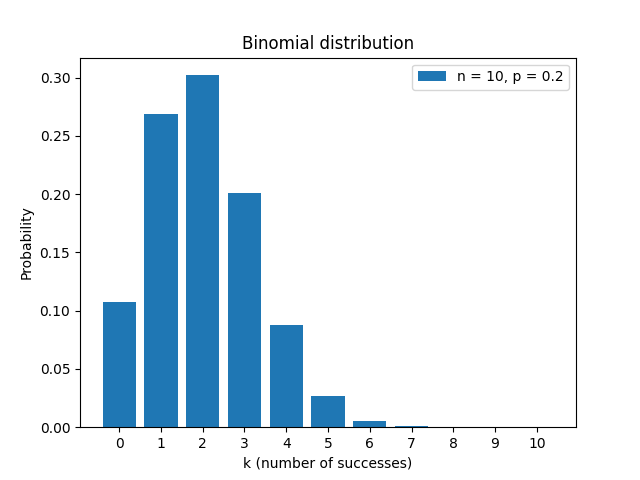
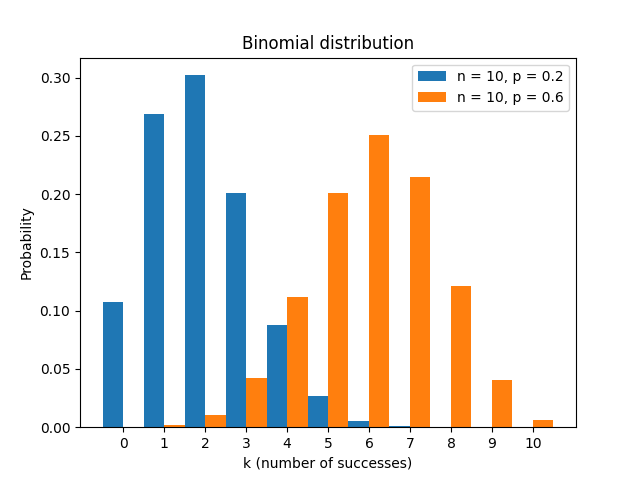
Embed more diagrams

diff --git a/rand_distr/src/gamma.rs b/rand_distr/src/gamma.rs
@@ -50,10 +50,17 @@ use serde::{Serialize, Deserialize};
 /// println!("{} is from a Gamma(2, 5) distribution", v);
 /// ```
 ///
+/// # Diagram
+///
+/// The diagram shows the Gamma distribution with varying shape and scale.
+///
+/// ![Gamma distribution][diagram]
+///
 /// [^1]: George Marsaglia and Wai Wan Tsang. 2000. "A Simple Method for
 ///       Generating Gamma Variables" *ACM Trans. Math. Softw.* 26, 3
 ///       (September 2000), 363-372.
 ///       DOI:[10.1145/358407.358414](https://doi.acm.org/10.1145/358407.358414)
+#[cfg_attr(feature = "doc-images", doc = embed_doc_image::embed_image!("diagram", "plots/gamma.png"))]
 #[derive(Clone, Copy, Debug, PartialEq)]
 #[cfg_attr(feature = "serde1", derive(Serialize, Deserialize))]
 pub struct Gamma<F>
@@ -280,6 +287,13 @@ where
 /// let v = chi.sample(&mut rand::thread_rng());
 /// println!("{} is from a χ²(11) distribution", v)
 /// ```
+///
+/// # Diagram
+///
+/// The diagram shows the chi-squared distribution with varying degrees of freedom.
+///
+/// ![Chi-squared distribution][diagram]
+#[cfg_attr(feature = "doc-images", doc = embed_doc_image::embed_image!("diagram", "plots/chi_squared.png"))]
 #[derive(Clone, Copy, Debug, PartialEq)]
 #[cfg_attr(feature = "serde1", derive(Serialize, Deserialize))]
 pub struct ChiSquared<F>

diff --git a/rand_distr/src/exponential.rs b/rand_distr/src/exponential.rs
@@ -91,6 +91,13 @@ impl Distribution<f64> for Exp1 {
 /// let v = exp.sample(&mut rand::thread_rng());
 /// println!("{} is from a Exp(2) distribution", v);
 /// ```
+///
+/// # Diagram
+///
+/// The diagram shows the exponential distribution with `λ = 0.5`, `λ = 1` and `λ = 2`.
+///
+/// ![Exponential distribution][diagram]
+#[cfg_attr(feature = "doc-images", doc = embed_doc_image::embed_image!("diagram", "plots/exponential.png"))]
 #[derive(Clone, Copy, Debug, PartialEq)]
 #[cfg_attr(feature = "serde1", derive(serde::Serialize, serde::Deserialize))]
 pub struct Exp<F>

diff --git a/rand_distr/src/binomial.rs b/rand_distr/src/binomial.rs
@@ -33,8 +33,8 @@ use num_traits::Float;
 ///
 /// # Diagram
 /// 
-/// The diagram shows the binomial distribution for `n = 10` and `p = 0.2`.
-/// The probability of `k` successes is shown for each `k` from 0 to 10.
+/// The following diagram of the binomial distribution illustrates the probability of 
+/// `k` successes out of `n = 10` trials with `p = 0.2` and `p = 0.6` for each `k` from 0 to `n`.
 ///
 /// ![Binomial distribution][diagram]
 #[cfg_attr(feature = "doc-images", doc = embed_doc_image::embed_image!("diagram", "plots/binomial.png"))]

diff --git a/rand_distr/src/normal.rs b/rand_distr/src/normal.rs
@@ -36,6 +36,13 @@ use core::fmt;
 /// let val: f64 = thread_rng().sample(StandardNormal);
 /// println!("{}", val);
 /// ```
+///
+/// # Diagram
+///
+/// The following diagram shows the normal distribution with various parameters.
+///
+/// ![Normal distribution][diagram]
+#[cfg_attr(feature = "doc-images", doc = embed_doc_image::embed_image!("diagram", "plots/normal.png"))]
 #[derive(Clone, Copy, Debug)]
 #[cfg_attr(feature = "serde1", derive(serde::Serialize, serde::Deserialize))]
 pub struct StandardNormal;
